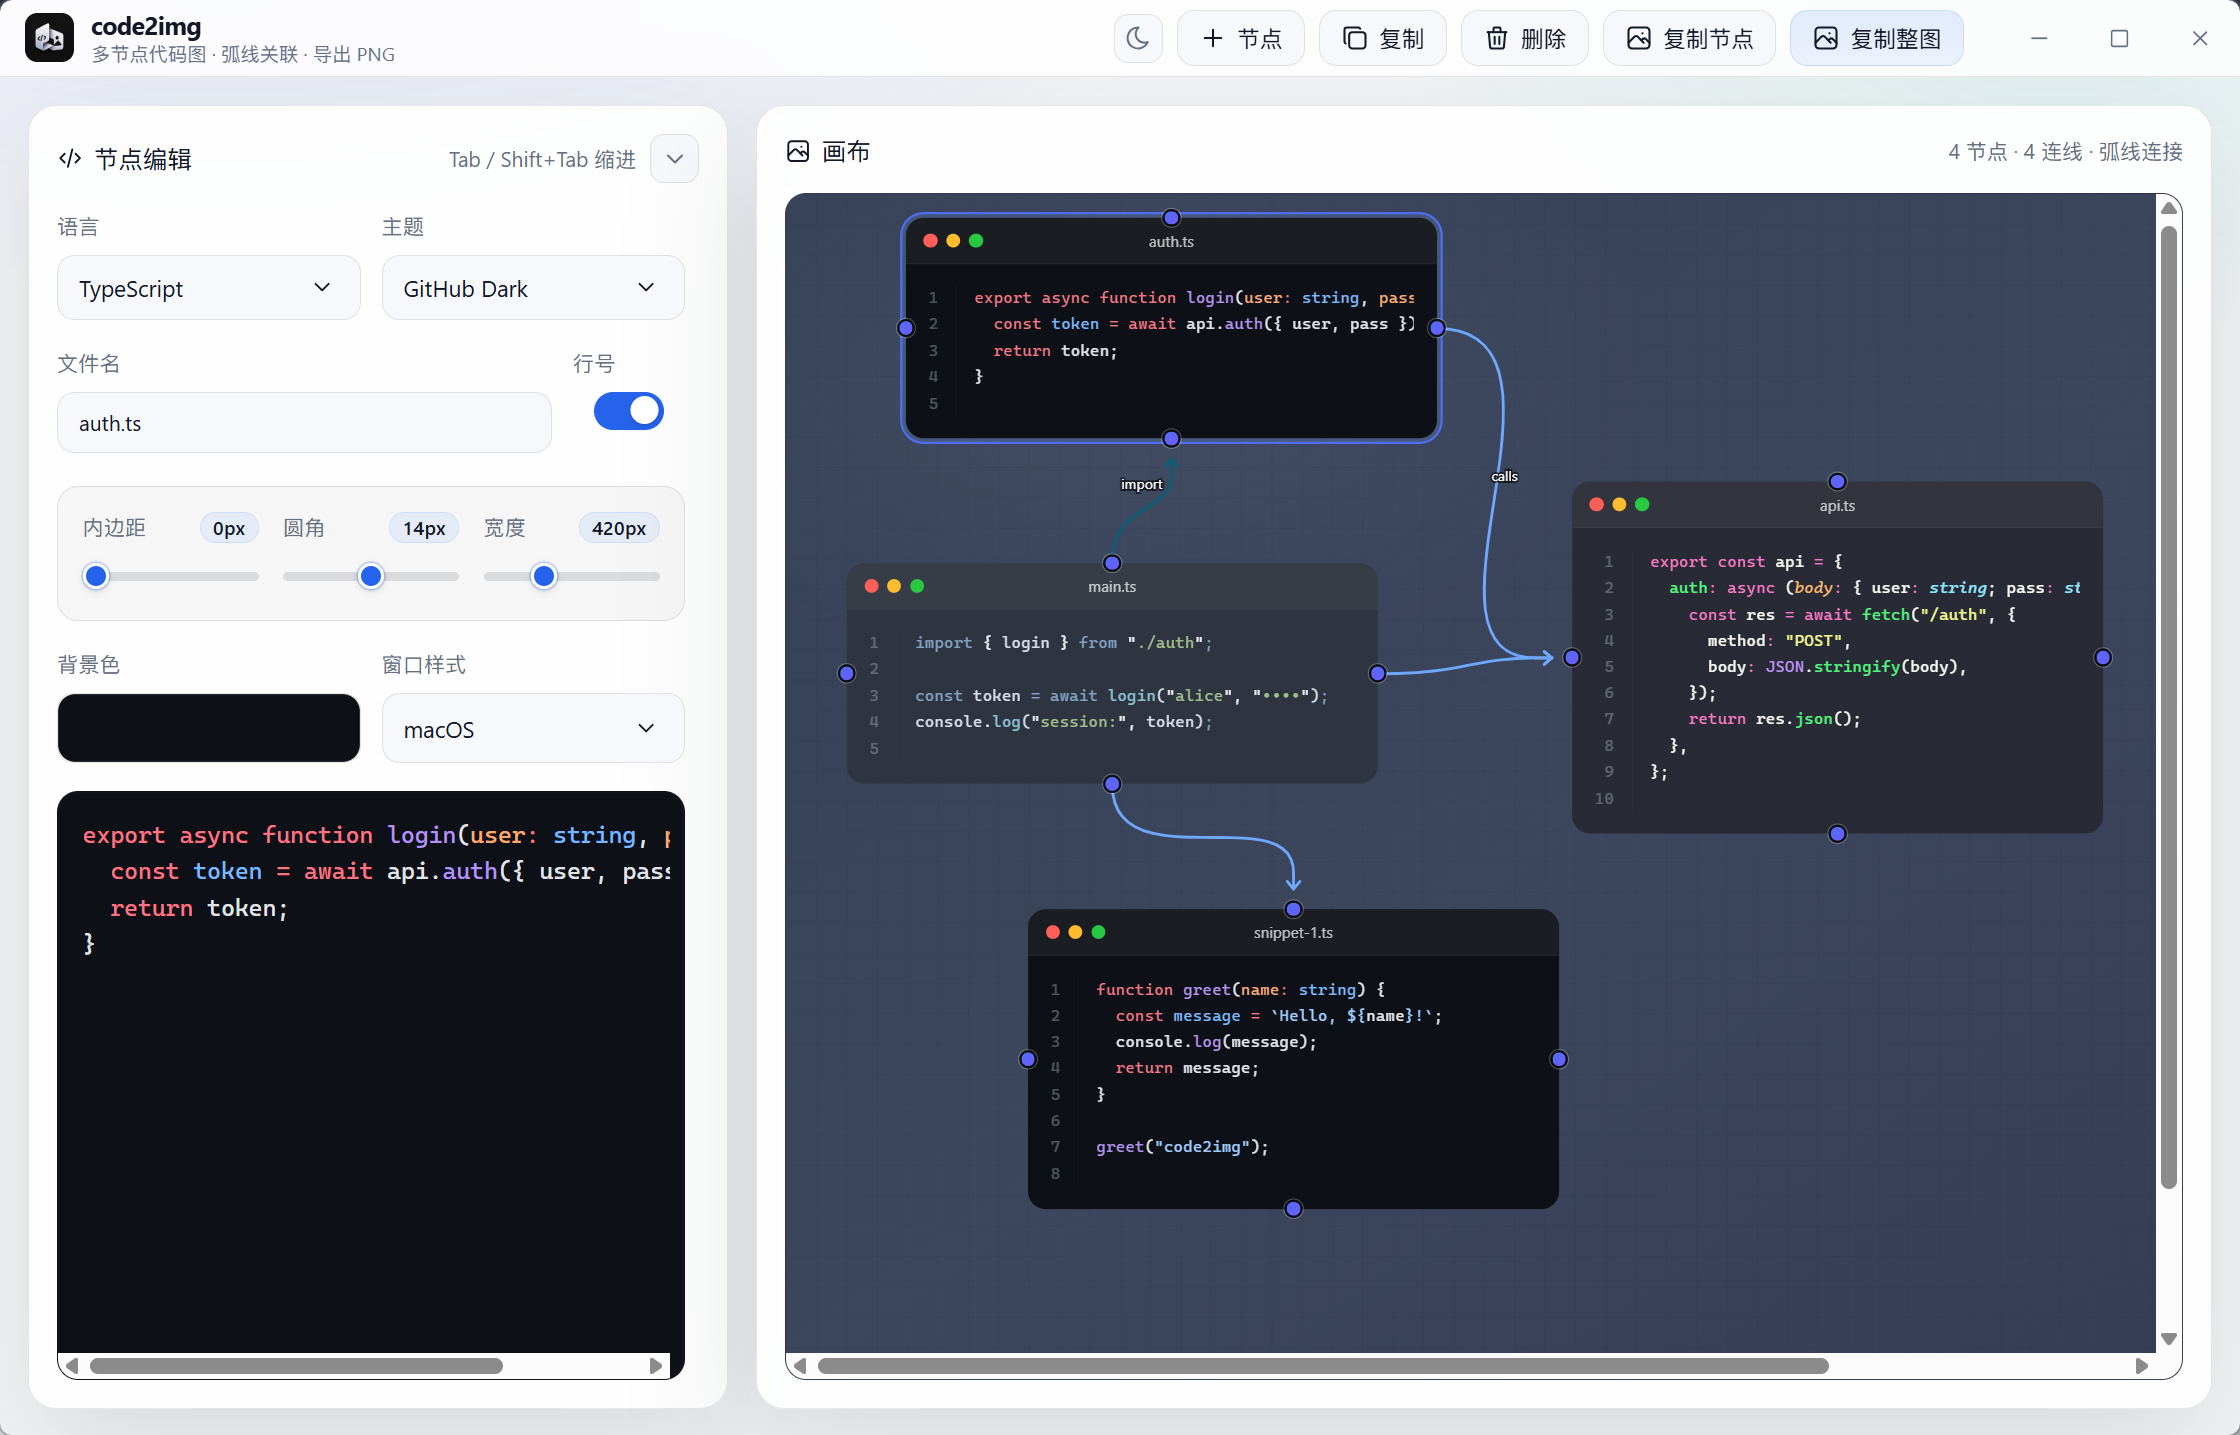
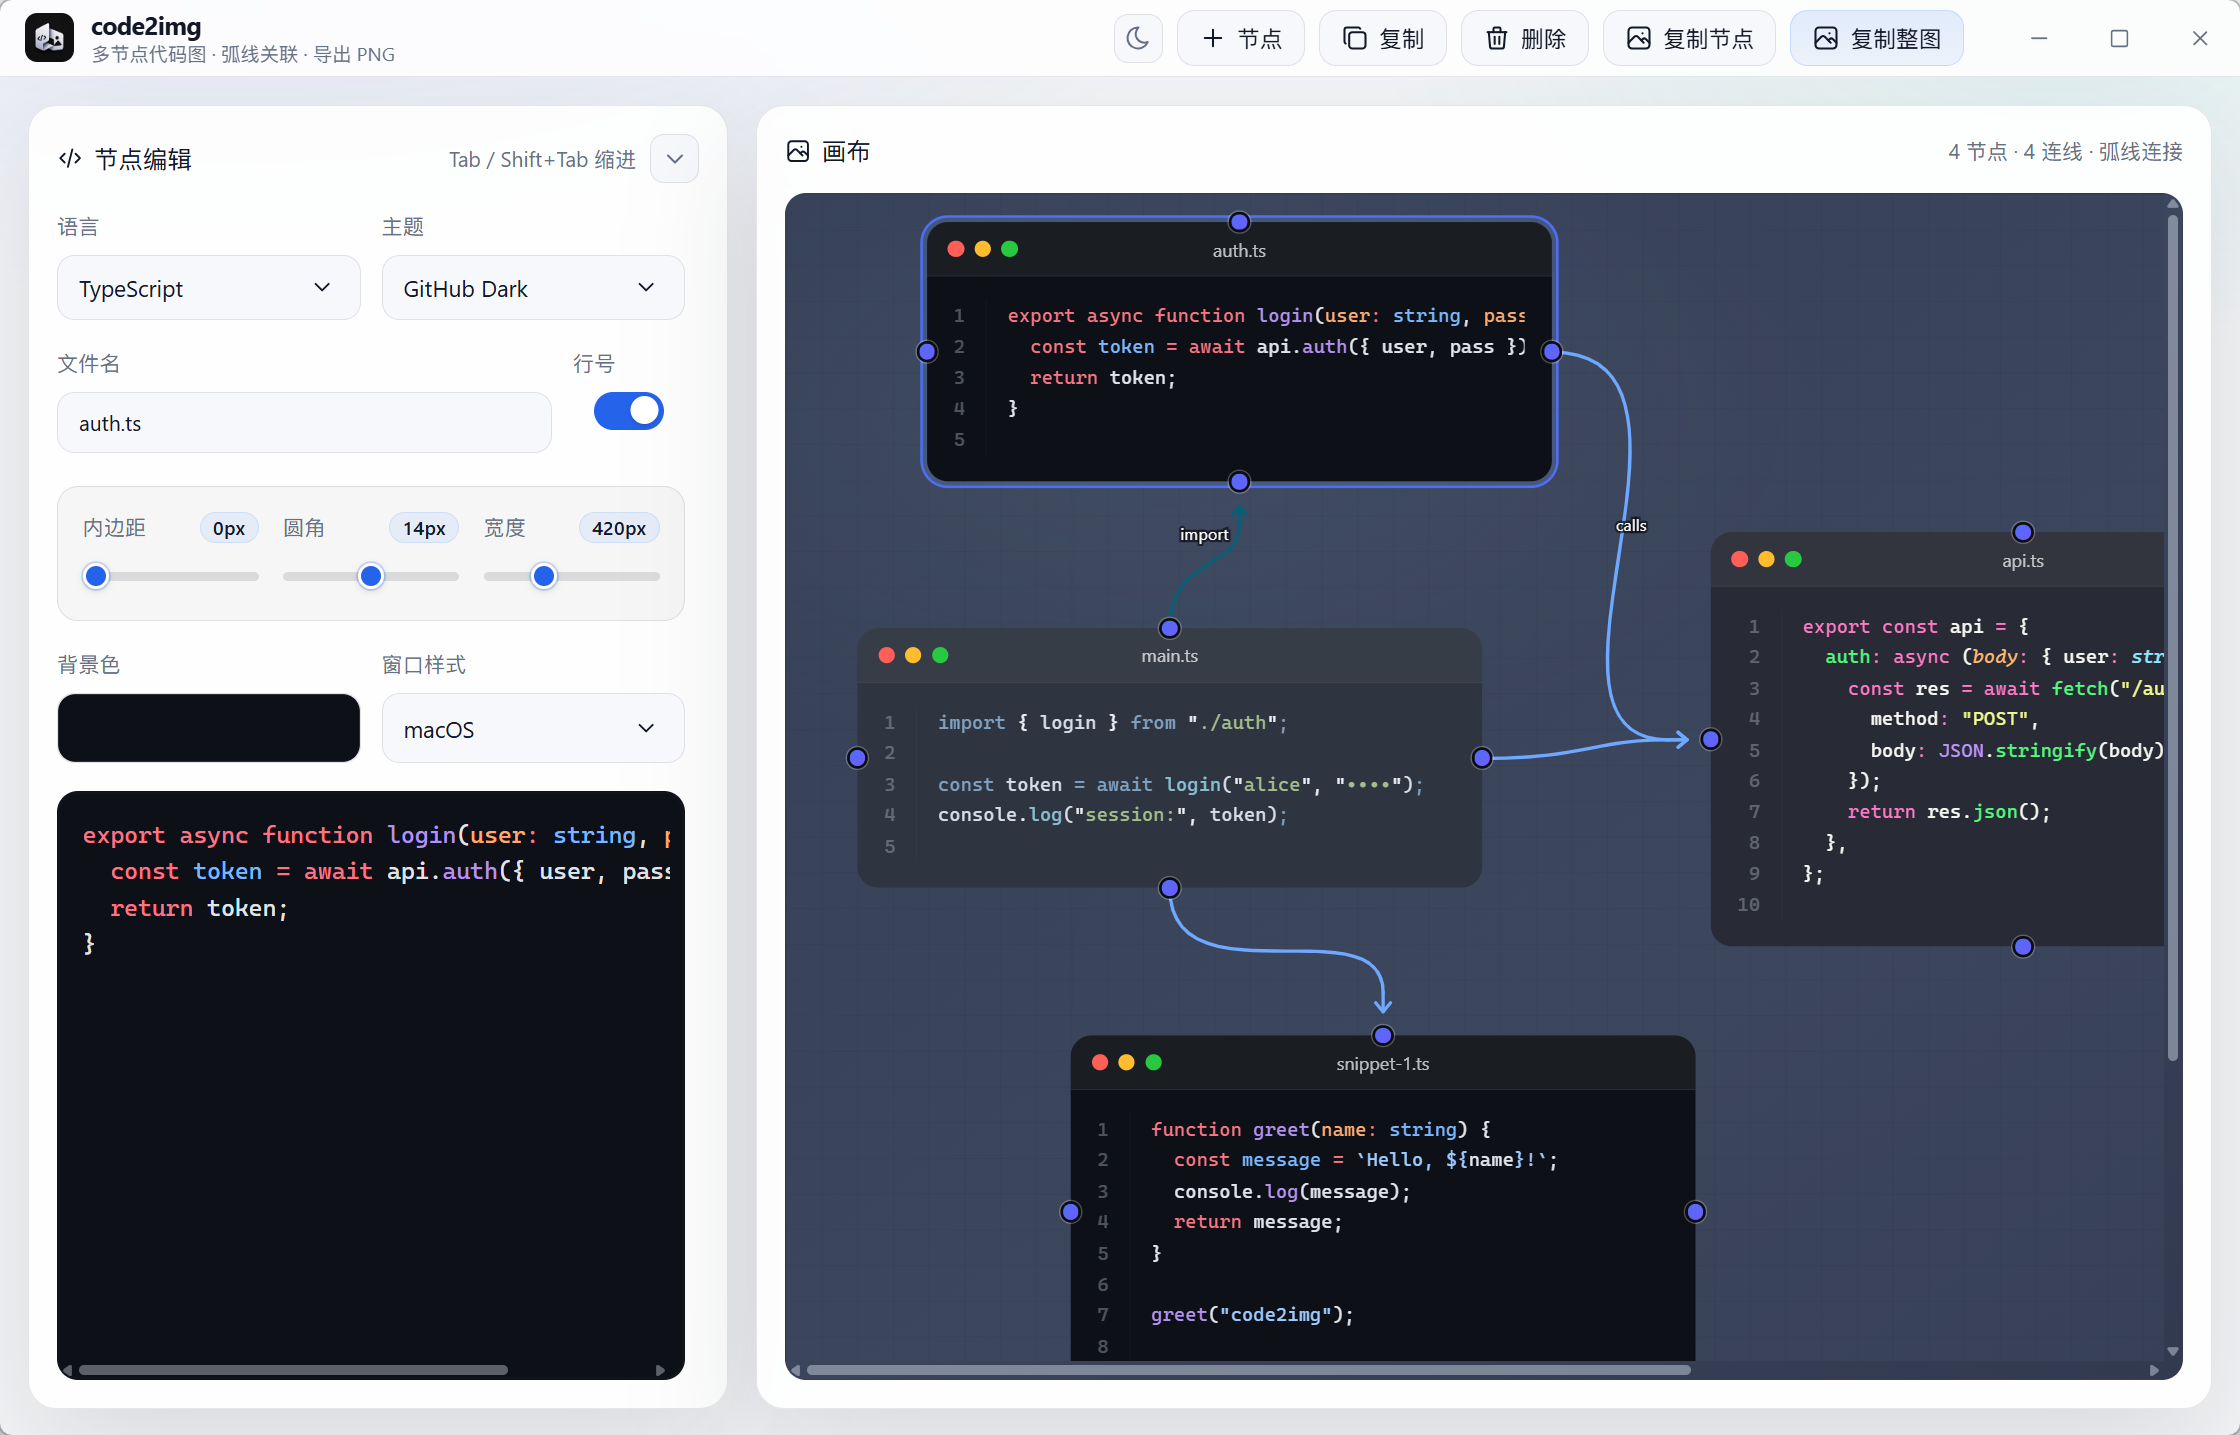
fix: improve image export capture

Changed region(s): [[0.3438, 0.1226, 1.0, 0.9812], [0.0312, 0.9199, 0.3125, 0.9812]]

diff --git a/src/exportImage.ts b/src/exportImage.ts
@@ -1,22 +1,93 @@
 import { domToPng } from "modern-screenshot";
 
-async function elementToPngBlob(element: HTMLElement): Promise<Blob> {
-  const dataUrl = await domToPng(element, {
-    scale: 2,
-    quality: 1,
-    backgroundColor: null,
+type CaptureOptions = {
+  width?: number;
+  height?: number;
+  detached?: boolean;
+};
+
+function createDetachedCaptureNode(
+  element: HTMLElement,
+  width?: number,
+  height?: number,
+): { node: HTMLElement; cleanup: () => void } {
+  const clone = element.cloneNode(true) as HTMLElement;
+  const captureWidth = width ?? element.scrollWidth;
+  const captureHeight = height ?? element.scrollHeight;
+
+  const host = document.createElement("div");
+  host.setAttribute("aria-hidden", "true");
+  Object.assign(host.style, {
+    position: "fixed",
+    left: "0",
+    top: "0",
+    width: `${captureWidth}px`,
+    height: `${captureHeight}px`,
+    overflow: "visible",
+    pointerEvents: "none",
+    zIndex: "-2147483648",
   });
 
-  const res = await fetch(dataUrl);
-  const blob = await res.blob();
-  // Clipboard expects an explicit image/png type
-  if (blob.type === "image/png") return blob;
-  return new Blob([blob], { type: "image/png" });
+  Object.assign(clone.style, {
+    width: `${captureWidth}px`,
+    height: `${captureHeight}px`,
+    minWidth: `${captureWidth}px`,
+    minHeight: `${captureHeight}px`,
+    overflow: "visible",
+  });
+
+  host.appendChild(clone);
+  document.body.appendChild(host);
+
+  return {
+    node: clone,
+    cleanup: () => host.remove(),
+  };
+}
+
+async function elementToPngBlob(
+  element: HTMLElement,
+  options: CaptureOptions = {},
+): Promise<Blob> {
+  const capture = options.detached
+    ? createDetachedCaptureNode(element, options.width, options.height)
+    : { node: element, cleanup: () => undefined };
+
+  try {
+    const dataUrl = await domToPng(capture.node, {
+      width: options.width,
+      height: options.height,
+      style:
+        options.width || options.height
+          ? {
+              width: options.width ? `${options.width}px` : undefined,
+              height: options.height ? `${options.height}px` : undefined,
+              minWidth: options.width ? `${options.width}px` : undefined,
+              minHeight: options.height ? `${options.height}px` : undefined,
+              overflow: "visible",
+            }
+          : undefined,
+      scale: 2,
+      quality: 1,
+      backgroundColor: null,
+    });
+
+    const res = await fetch(dataUrl);
+    const blob = await res.blob();
+    // Clipboard expects an explicit image/png type
+    if (blob.type === "image/png") return blob;
+    return new Blob([blob], { type: "image/png" });
+  } finally {
+    capture.cleanup();
+  }
 }
 
 /** Copy rendered element as PNG into the system clipboard (paste into chat / docs). */
-export async function copyElementAsPng(element: HTMLElement): Promise<void> {
-  const blob = await elementToPngBlob(element);
+export async function copyElementAsPng(
+  element: HTMLElement,
+  options?: CaptureOptions,
+): Promise<void> {
+  const blob = await elementToPngBlob(element, options);
 
   if (!navigator.clipboard?.write || typeof ClipboardItem === "undefined") {
     throw new Error("当前环境不支持复制图片到剪贴板");
@@ -33,8 +104,9 @@ export async function copyElementAsPng(element: HTMLElement): Promise<void> {
 export async function exportElementAsPng(
   element: HTMLElement,
   filename = "code2img.png",
+  options?: CaptureOptions,
 ): Promise<void> {
-  const blob = await elementToPngBlob(element);
+  const blob = await elementToPngBlob(element, options);
   const url = URL.createObjectURL(blob);
 
   const a = document.createElement("a");

diff --git a/src/App.tsx b/src/App.tsx
@@ -374,48 +374,38 @@ function App() {
     setError(null);
     setStatus(null);
 
-    const prev = {
-      width: el.style.width,
-      height: el.style.height,
-      minWidth: el.style.minWidth,
-      minHeight: el.style.minHeight,
-    };
-
     // Hide ports / selection chrome so they don't appear in the screenshot
     el.classList.add("is-capturing");
 
     try {
-      let maxX = 800;
-      let maxY = 600;
+      const exportPadding = 96;
+      let maxX = nodes.length ? exportPadding : 800;
+      let maxY = nodes.length ? exportPadding : 600;
       for (const n of nodes) {
         const card = el.querySelector(
           `[data-node-id="${n.id}"]`,
         ) as HTMLElement | null;
         const h = card?.offsetHeight ?? 200;
-        maxX = Math.max(maxX, n.x + n.width + 80);
-        maxY = Math.max(maxY, n.y + h + 80);
+        maxX = Math.ceil(Math.max(maxX, n.x + n.width + exportPadding));
+        maxY = Math.ceil(Math.max(maxY, n.y + h + exportPadding));
       }
-      el.style.minWidth = `${maxX}px`;
-      el.style.minHeight = `${maxY}px`;
-      el.style.width = `${maxX}px`;
-      el.style.height = `${maxY}px`;
 
-      // Let the browser paint without UI chrome before capture
+      // Let the browser apply capture-only styles before cloning the world.
       await new Promise<void>((resolve) =>
         requestAnimationFrame(() => requestAnimationFrame(() => resolve())),
       );
 
       // Default: copy image to clipboard for quick paste sharing
-      await copyElementAsPng(el);
+      await copyElementAsPng(el, {
+        width: maxX,
+        height: maxY,
+        detached: true,
+      });
       setStatus("整图已复制到剪贴板，可直接 Ctrl+V 粘贴");
     } catch (e) {
       setError(e instanceof Error ? e.message : "复制图片失败");
     } finally {
       el.classList.remove("is-capturing");
-      el.style.width = prev.width;
-      el.style.height = prev.height;
-      el.style.minWidth = prev.minWidth;
-      el.style.minHeight = prev.minHeight;
       setIsExporting(false);
     }
   };
@@ -434,7 +424,11 @@ function App() {
     setStatus(null);
     world?.classList.add("is-capturing");
     try {
-      await copyElementAsPng(card);
+      await copyElementAsPng(card, {
+        width: Math.ceil(card.offsetWidth),
+        height: Math.ceil(card.offsetHeight),
+        detached: true,
+      });
       setStatus("选中节点已复制到剪贴板，可直接 Ctrl+V 粘贴");
     } catch (e) {
       setError(e instanceof Error ? e.message : "复制节点失败");

diff --git a/README.md b/README.md
@@ -1,8 +1,18 @@
-# code2img
+<h1 align="center">code2img</h1>
 
 把代码片段编排成一张可分享的关系图。code2img 是一个用 **Tauri 2 + React + TypeScript** 构建的桌面应用，支持多代码节点、弧线连接、语法高亮主题和高清 PNG 导出。
 
 ![code2img preview](public/img.png)
+
+## 预览
+
+### 导出整图
+
+![code2img export full canvas](public/img2.png)
+
+### 复制单图
+
+![code2img copy single node](public/img3.png)
 
 ## 特性
 
@@ -25,8 +35,8 @@
 
 Windows release 包构建后会生成：
 
-- NSIS 安装包：`src-tauri/target/release/bundle/nsis/code2img_0.1.1_x64-setup.exe`
-- MSI 安装包：`src-tauri/target/release/bundle/msi/code2img_0.1.1_x64_en-US.msi`
+- NSIS 安装包：`src-tauri/target/release/bundle/nsis/code2img_0.1.2_x64-setup.exe`
+- MSI 安装包：`src-tauri/target/release/bundle/msi/code2img_0.1.2_x64_en-US.msi`
 - 免安装可执行文件：`src-tauri/target/release/code2img.exe`
 
 ## 本地开发
